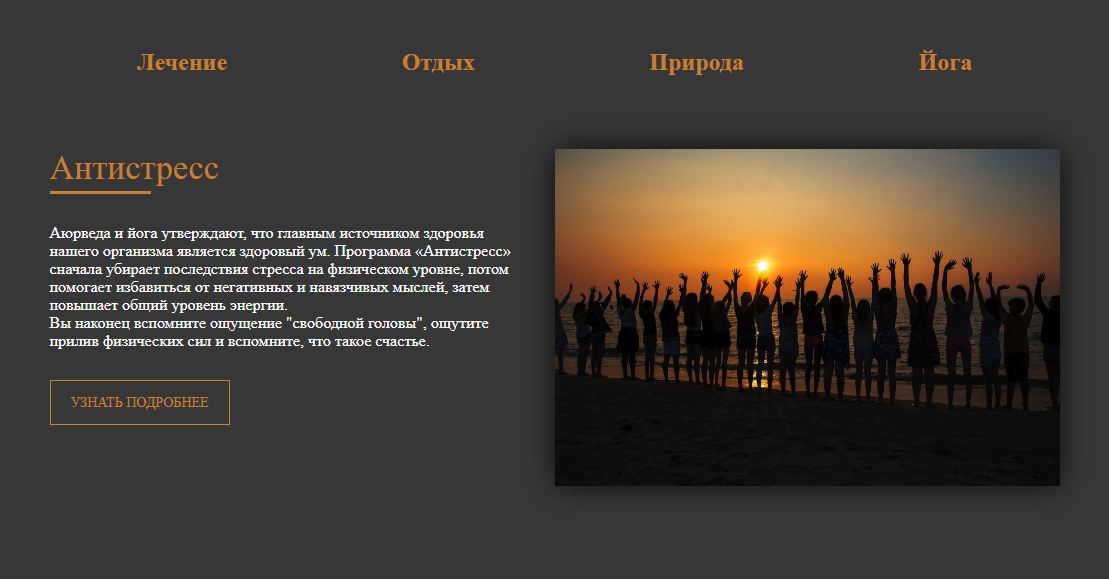
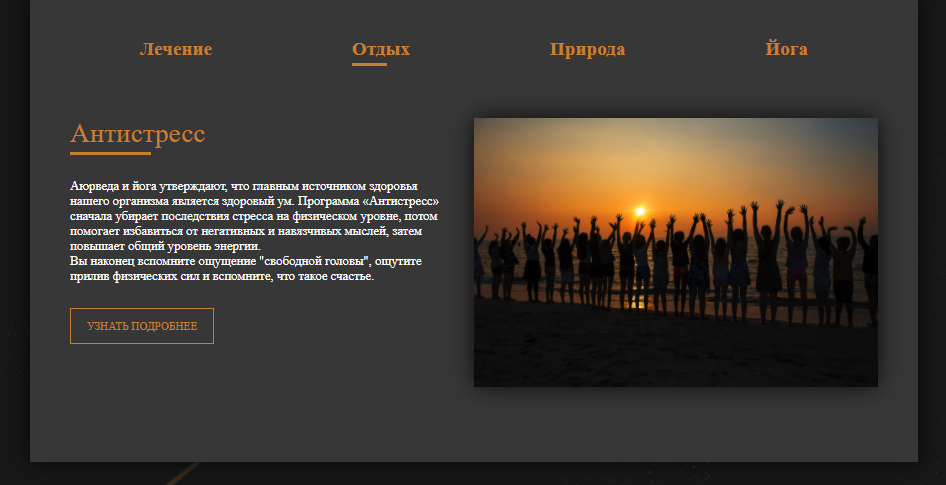
readMe

diff --git a/README.md b/README.md
@@ -1,2 +1,17 @@
-tabs
-1) discriptions 
+Tabulation to webSite
+
+What I used in my project:
+- HTML/css
+- JavaScript
+
+![alt text](./pic/1.png)
+Pic 1 - Selected page - 'Лечение'
+
+![alt text](./pic/2.png)
+Pic 2 - Selected page - 'Отдых'
+
+![alt text](./pic/3.png)
+Pic 3 - Selected page - 'Природа'
+
+![alt text](./pic/4.png)
+Pic 4 - Selected page - 'Йога'
